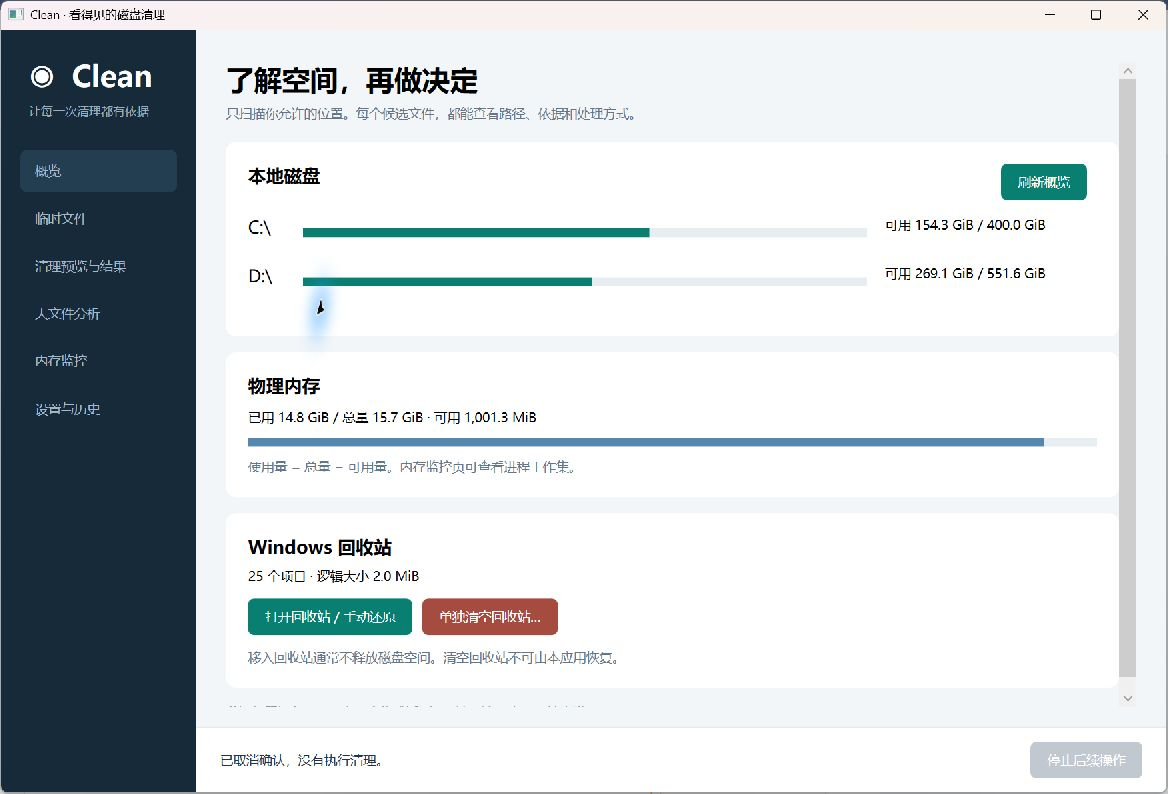
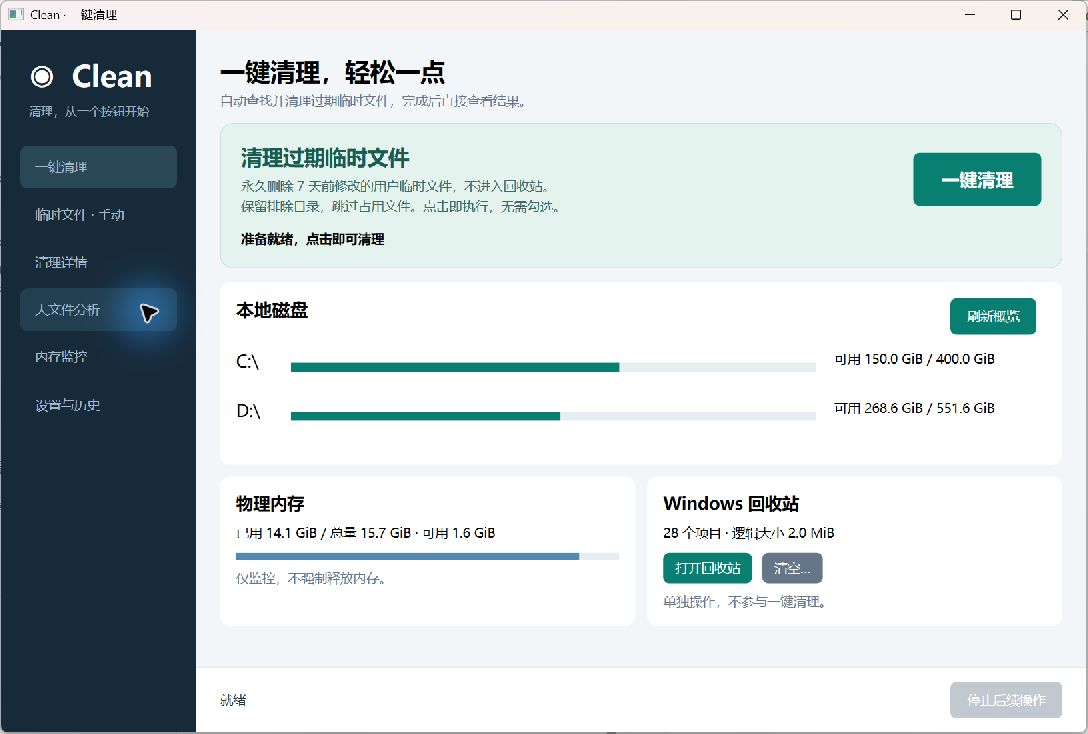
docs: record v0.2 verification and refreshed one-click home

diff --git a/docs/test-report.md b/docs/test-report.md
@@ -1,4 +1,18 @@
-# v0.1 开发验证报告
+# Clean 开发验证报告
+
+## v0.2.0 增量验证 — 2026-10-29
+
+`pwsh ./scripts/build.ps1`：Release 构建 0 警告、0 错误；常规测试 **65 通过、0 失败**（Core 31 / Windows 16 / App 18）。十万文件基准本轮按默认配置跳过，未改动扫描器和原生执行层，不将下文旧基准称为本轮测量。
+
+新增 9 项测试覆盖：无需选择/弹窗的一键永久清理、至少 7 天年龄下限、较长设置阈值、排除规则、零候选、隔离之前的大文件选择、扫描取消不删除、执行取消保留逐项报告、不可访问范围不误报清理成功、错误后恢复控制，以及真实文件删除和持久化历史的组合验证。真实删除仅发生在 `Clean.Quick.Tests/<随机ID>` 自建临时测试目录；近期、排除和范围外文件保留，第二次清理不创建空任务。
+
+新版自包含程序已启动。首页实际窗口确认：一键清理按钮可见，永久删除范围事先显示，不需先选择文件；侧栏保留 #A3B8CC，磁盘与内存/回收站卡片采用紧凑布局。截图为 images/overview.jpg。
+
+设置与清理详情已改为内容高度、并排设置卡片和无数据时隐藏表格；XAML 编译通过，但本轮视觉复核在用户按 Esc 停止 Computer Use 后结束，因此这两页尚未完成实际窗口视觉复核。未对用户真实 Temp 点击一键清理。
+
+下文 v0.1 的隔离机器、真实清空回收站、DPI、签名与正式上传限制仍适用。新的永久清理按钮行为以用户追加要求和 docs/specs/cleanup.md 为准。
+
+## v0.1 基线验证
 
 日期：2026-10-28。结论：应用、核心流程和本地发布构建已实现，适用自动化通过；这是预发布开发交付，尚未满足 plan.md 的全部 M4 正式发布退出条件。
 

diff --git a/docs/tasks.md b/docs/tasks.md
@@ -11,3 +11,5 @@
 测试证据与环境不足项统一记录在 test-report.md；不以文档勾选替代执行证据。
 
 用户追加界面要求：已移除侧栏底部“本地运行 · 免费开源”“v0.1.0 · 预发布”；六项导航文字统一 #A3B8CC，包括选中项。实际窗口已检查。
+
+2026-10-29 增量：FR-15 一键清理、NFR-09 紧凑布局已实现。新增一键流程测试和真实隔离文件测试，常规 65 项通过；首页已视觉核验，设置/详情视觉检查因用户停止 Computer Use 尚未完成。v0.2.0 使用独立版本目录和 ZIP，不覆盖旧版包。
